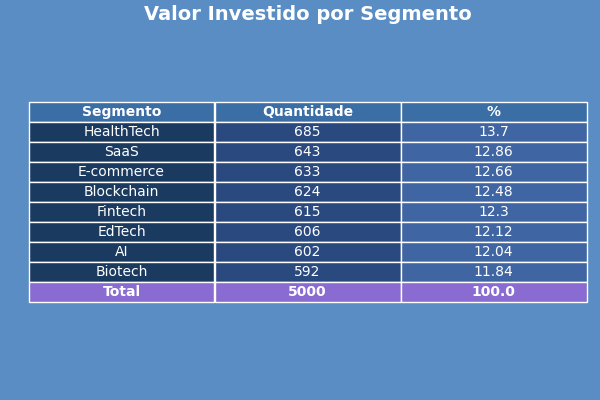
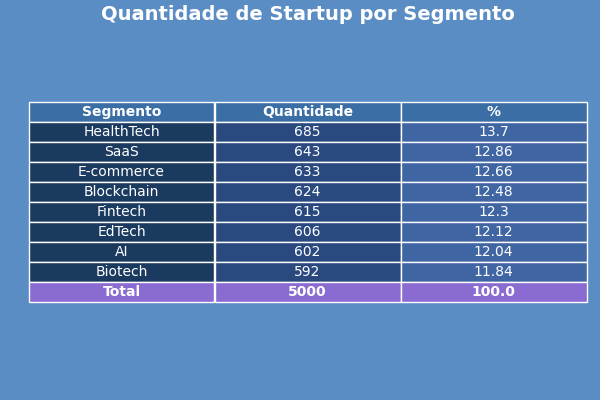
Correção Título Gráfico

Changed region(s): [[0.15, 0.0, 0.87, 0.06]]

diff --git a/analise.py b/analise.py
@@ -113,8 +113,8 @@ for (i, j), cell in table.get_celld().items():
 table.auto_set_font_size(False)
 table.set_fontsize(10)
 table.scale(1.2, 1.2)
-plt.title("Valor Investido por Segmento", fontsize=14, fontweight='bold', color='white', pad=20)
-#plt.savefig("img\\Analise_Startup_Pais_QTD")
+plt.title("Quantidade de Startup por Segmento", fontsize=14, fontweight='bold', color='white', pad=20)
+plt.savefig("img\\Analise_Startup_Pais_QTD")
 plt.show()
 
 # ======================================
